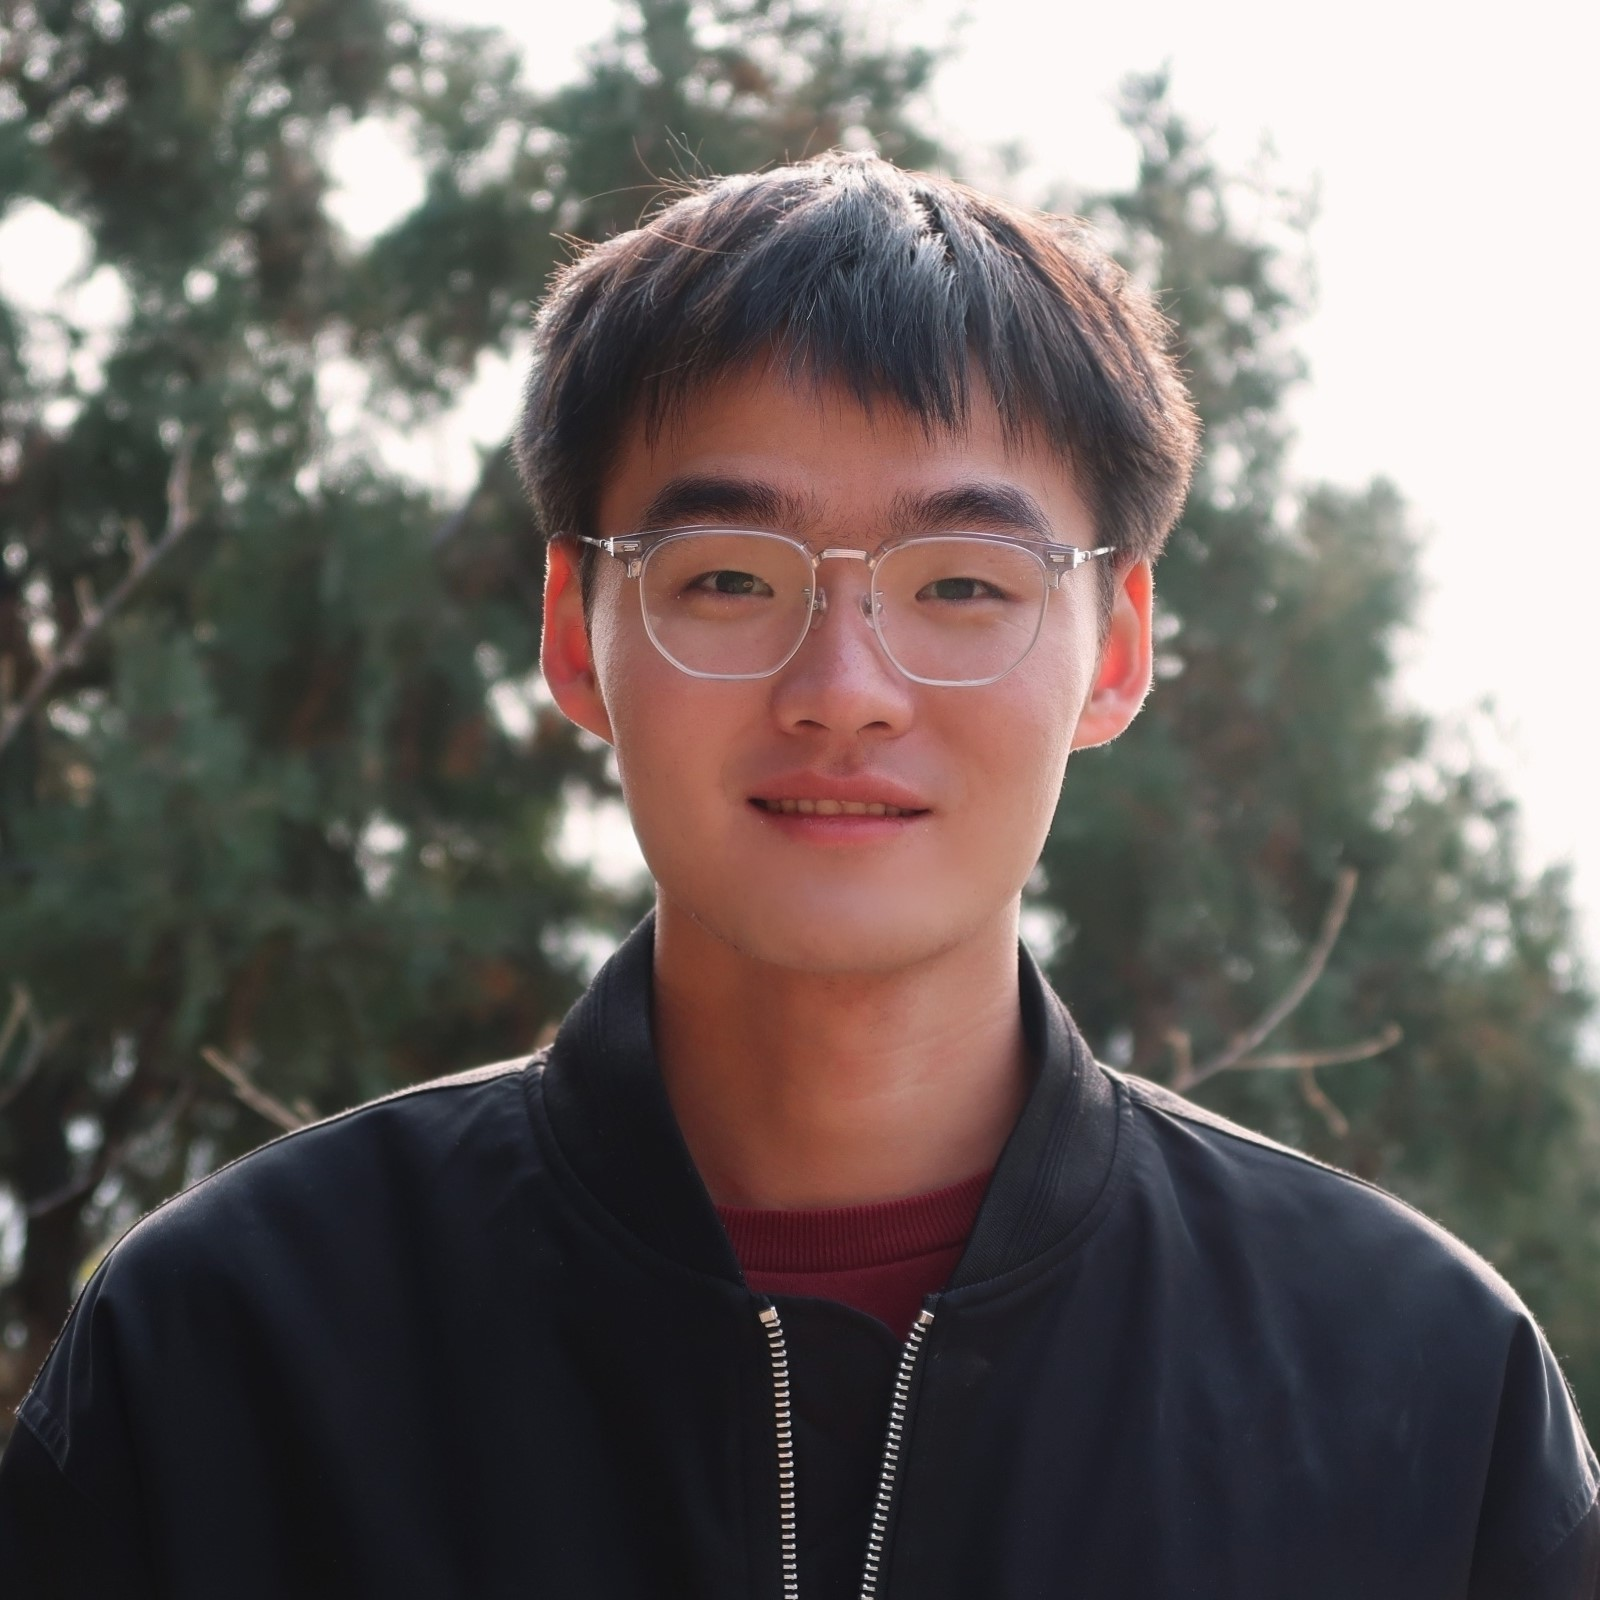
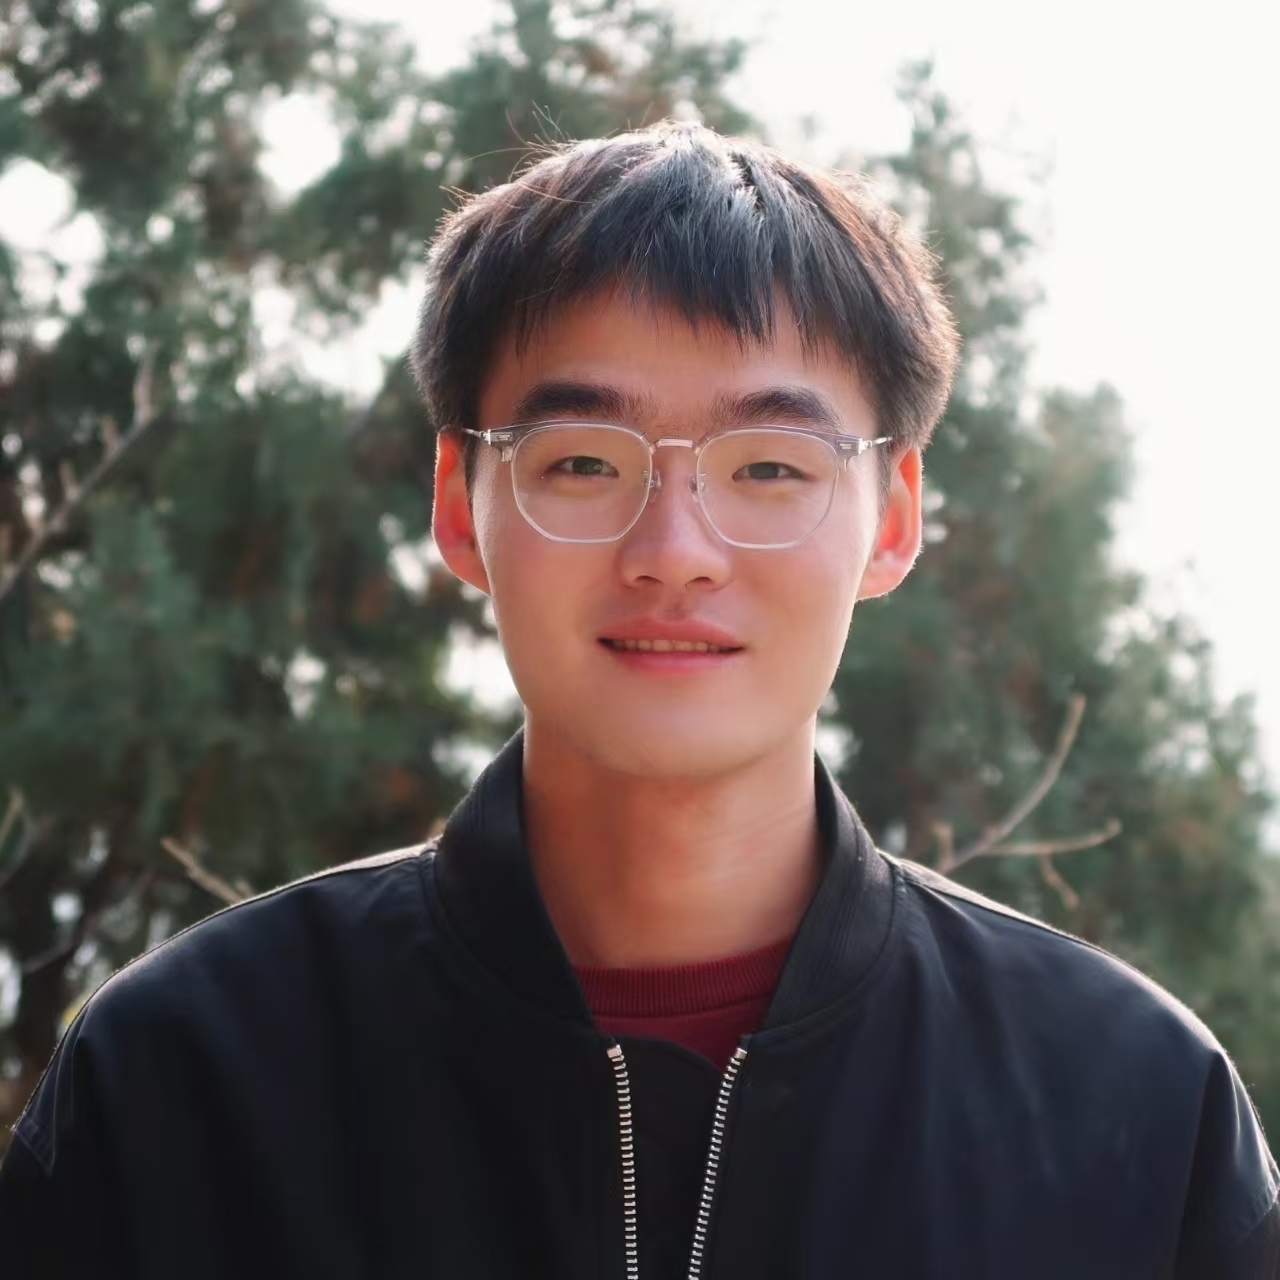
update speakers

diff --git a/src/app/components/speakers.jsx b/src/app/components/speakers.jsx
@@ -7,48 +7,63 @@ const Speakers = () => {
                 <div>
                     <PersonAvatar
                         name="Jiachen Li"
-                        image="/avatar.jpg"
+                        image="/jiachen_li.jpg"
                         affiliation="University of California Riverside, USA"
+                        link="https://jiachenli94.github.io/"
                     />
                 </div>
 
                 <div>
                     <PersonAvatar
                         name="Siheng Chen"
-                        image="/avatar.jpg"
+                        image="/siheng_chen.jpg"
                         affiliation="Shanghai Jiao Tong University, China"
+                        link="https://siheng-chen.github.io/"
                     />
                 </div>
 
                 <div>
                     <PersonAvatar
                         name="Marco Pavone"
-                        image="/avatar.jpg"
+                        image="/marco_pavone.jpeg"
                         affiliation="Stanford University, USA"
+                        link="https://web.stanford.edu/~pavone/"
                     />
                 </div>
 
                 <div>
                     <PersonAvatar
                         name="Enze Xie"
-                        image="/avatar.jpg"
+                        image="/enze_xie.png"
                         affiliation="Nvidia, USA"
+                        link="https://xieenze.github.io/"
                     />
                 </div>
 
                 <div>
                     <PersonAvatar
                         name="Hongyang Li"
-                        image="/avatar.jpg"
+                        image="/hongyang_li.jpeg"
                         affiliation="The University of Hong Kong, China"
+                        link="https://datascience.hku.hk/people/hongyang-li/"
                     />
                 </div>
 
                 <div>
                     <PersonAvatar
                         name="Jeannette Bohg"
-                        image="/avatar.jpg"
+                        image="/jeannette_bohg.png"
                         affiliation="Stanford University, USA"
+                        link="https://web.stanford.edu/~bohg/"
+                    />
+                </div>
+
+                <div>
+                    <PersonAvatar
+                        name="Hao Zhao"
+                        image="/hao_zhao.jpg"
+                        affiliation="Tsinghua University, China"
+                        link="https://sites.google.com/view/fromandto"
                     />
                 </div>
             </div>

diff --git a/src/app/page.js b/src/app/page.js
@@ -71,7 +71,7 @@ export default function Home() {
       <Section title={"Sponsors"}
         body={
           <div>
-            TBD
+            We are currently seeking sponsorship opportunities and would be delighted to discuss potential collaborations. Interested parties are kindly requested to contact us via email at yuhaibao94@gmail.com for further details.
           </div>
         }
         id="sponsors" />
